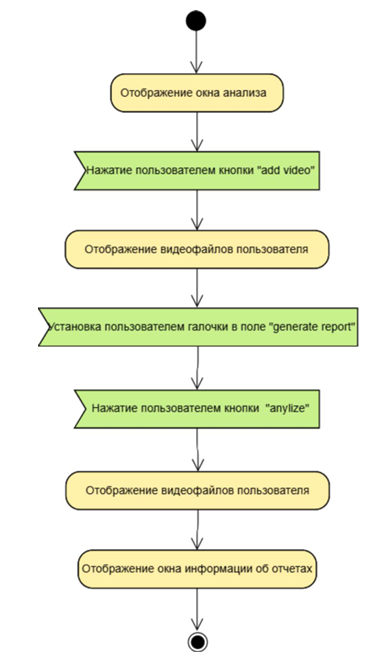
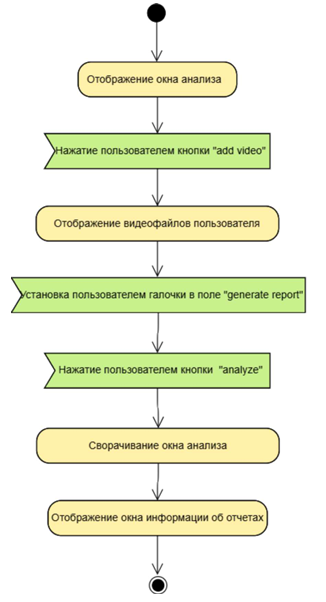
sequence all aded + typos in analyze activity fixed

Changed region(s): [[0.0307, 0.0, 0.9509, 1.0]]

diff --git a/docs/diagrams/sequence.md b/docs/diagrams/sequence.md
@@ -17,21 +17,21 @@ sequenceDiagram
     participant DB as База данных
     participant GM as Главное меню
 
-    U->>UI: Нажимает кнопку "Sign In"
+    U->>UI: Нажатие кнопки "Sign In"
     UI->>U: Запрос имени пользователя
-    U->>UI: Вводит имя пользователя
-    UI->>A: Передает имя пользователя
+    U->>UI: Ввод имени пользователя
+    UI->>A: Передача имя пользователя
     A->>DB: Проверка существования имени
     DB-->>A: Результат проверки
     
     alt Имя существует
         A->>UI: Команда свернуть окно
-        UI->>UI: Сворачивается
-        A->>GM: Создать главное меню
-        GM-->>U: Отображается главное меню
+        UI->>UI: Сворачивание
+        A->>GM: Создание главное меню
+        GM-->>U: Отображение главное меню
         A-->>U: Успешный вход
     else Имя не существует
-        A->>UI: Показать ошибку
+        A->>UI: Отображение ошибки
         UI-->>U: Сообщение "Имя не найдено"
     end
 ```
@@ -44,41 +44,137 @@ sequenceDiagram
     participant DB as База данных
     participant GM as Главное меню
 
-    U->>UI: Нажимает кнопку "Sign Up"
+    U->>UI: Нажатие кнопки "Sign Up"
     UI->>U: Запрос имени пользователя
-    U->>UI: Вводит имя пользователя
-    UI->>A: Передает имя пользователя
+    U->>UI: Ввод имя пользователя
+    UI->>A: Передача имя пользователя
     A->>DB: Проверка занятости имени
     DB-->>A: Результат проверки
     
     alt Имя занято
-        A->>UI: Показать ошибку
+        A->>UI: Отображение ошибки
         UI-->>U: Сообщение "Имя уже занято"
     else Имя свободно
         UI->>U: Запрос email и активатора
-        U->>UI: Вводит email и активатор
-        UI->>A: Передает данные регистрации
+        U->>UI: Ввод email и активатора
+        UI->>A: Передача данных регистрации
         
         A->>A: Проверка активатора
         alt Активатор null или валидный
             A->>DB: Создать нового пользователя
             DB-->>A: Подтверждение создания
             A->>UI: Команда закрыть окно
-            UI->>UI: Закрывается
-            A->>GM: Создать главное меню
-            GM-->>U: Отображается главное меню
+            UI->>UI: Закрытие
+            A->>GM: Создание главное меню
+            GM-->>U: Отображение главного меню
             A-->>U: Успешная регистрация
         else Активатор невалидный
-            A->>UI: Показать ошибку
+            A->>UI: Отображение ошибки
             UI-->>U: Сообщение "Невалидный активатор"
         end
     end
 ```
 ## 3 Добавление видео  
-![](../diagrams/images/add_vid.png)
+```mermaid
+sequenceDiagram
+    participant U as Пользователь
+    participant VL as Окно видеотеки
+    participant EM as Меню редактирования
+    participant FM as Файловый менеджер
+    participant FS as Файловая система
+
+    U->>VL: Нажатие кнопки "Edit"
+    VL->>EM: Открытие меню редактирования
+    EM-->>U: Отображение меню редактирования
+    
+    U->>EM: Нажатие кнопки "Add"
+    EM->>FM: Открытие файлового менеджера
+    FM-->>U: Отображение файлового менеджера
+    
+    FM->>FS: Получение списка файлов
+    FS-->>FM: Список файлов и папок
+    FM-->>U: Отображение файлов пользователя
+    
+    U->>FM: Выбор видеофайла
+    FM->>EM: Передача выбранного файла
+    EM->>EM: Сворачивание меню редактирования
+    EM->>VL: Обновление видеотеки новым файлом
+    VL-->>U: Отображение обновленной видеотеки
+```
 ## 4 Выбор модели  
-![](../diagrams/images/model_choice.png)
+```mermaid
+sequenceDiagram
+    participant U as Пользователь
+    participant MM as Окно моделей
+    participant S as Сервер/БД
+
+    U->>MM: Нажaтие на модель в списке
+    MM->>S: Запрос параметров и версий модели
+    S-->>MM: Данные параметров и версий
+    MM-->>U: Отображение параметров и версии модели
+    
+    U->>MM: Нажатие кнопки "Configuration"
+    MM->>S: Запрос списка конфигураций
+    S-->>MM: Список значений гиперпараметров
+    MM-->>U: Возврат списка конфигураций
+    
+    U->>MM: Выбор конфигурации
+    MM->>MM: Сохранение выбранной конфигурации
+    
+    U->>MM: Нажатие кнопки "Version"
+    MM->>S: Запрос списка версий
+    S-->>MM: Список поддерживаемых версий
+    MM-->>U: Возврат списка версий
+    
+    U->>MM: Выбор версии модели
+    MM->>MM: Сохранение выбранной версии
+```
 ## 5 Просмотр отчета
-![](../diagrams/images/read_rep.png)  
+```mermaid
+sequenceDiagram
+    participant U as Пользователь
+    participant RI as Окно информации об отчетах
+    participant S as Сервер/БД
+
+    U->>RI: Нажатие на отчет из списка
+    RI->>S: Запрос выбранного отчета
+    S-->>RI: Данные отчета
+    RI-->>U: Отображение выбранного отчета
+    
+    U->>RI: Нажатие на кнопку "Search"
+    RI->>S: Запрос ключевых слов для отчета
+    S-->>RI: Список ключевых слов
+    RI-->>U: Отображение ключевых слов для поиска
+    
+    U->>RI: Выбор ключевого слова
+    RI->>S: Запрос позиций по ключевому слову
+    S-->>RI: Позиции вхождения в отчет
+    RI-->>U: Отображение позиций по ключевому слову
+```
 ## 6 Генерация отчета  
-![](../diagrams/images/create_rep.png) 
+```mermaid
+sequenceDiagram
+    participant U as Пользователь
+    participant AA as Окно анализа
+    participant FM as Файловый менеджер
+    participant FS as Файловая система
+    participant RI as Окно информации об отчетах
+
+    U->>AA: Нажатие на кнопку "Add Video"
+    AA->>FM: Запрос списка видеофайлов
+    FM->>FS: Получение списка файлов
+    FS-->>FM: Список видеофайлов
+    FM-->>AA: Передача списка видео
+    AA-->>U: Отображение списка видеофайлов
+    
+    U->>AA: Выбор видеофайла
+    AA->>AA: Сохранение выбранного файла
+    
+    U->>AA: Установка галочки "Generate Report"
+    AA->>AA: Запоминание настройки отчета
+    
+    U->>AA: Нажатие на кнопку "Analyze"
+    AA->>AA: Сворачивание окна анализа
+    AA->>RI: Открытие окна информации об отчетах
+    RI-->>U: Отображение окна отчетов
+```
